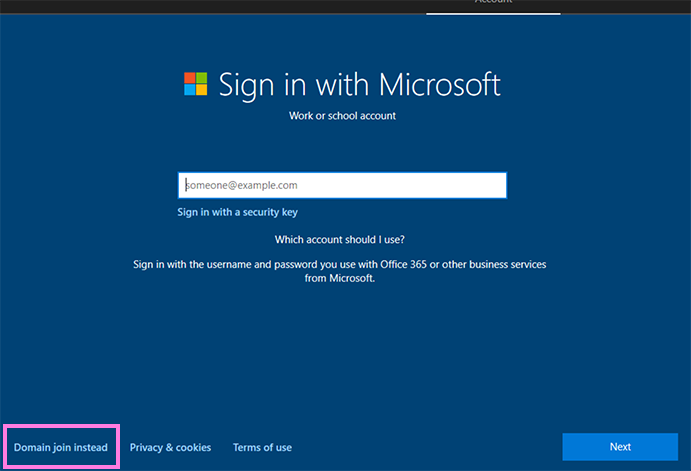
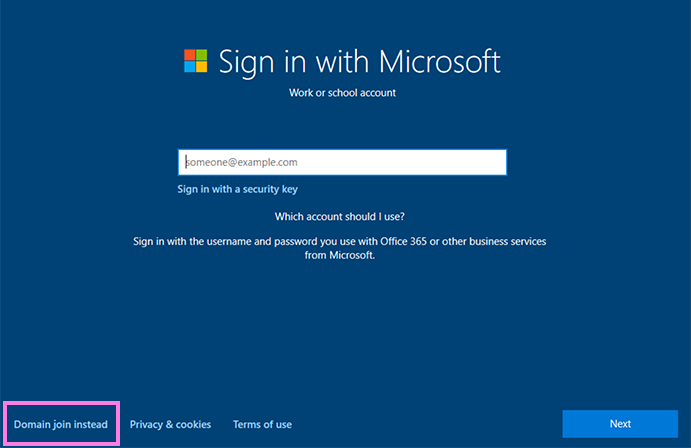
friday push

diff --git a/content/posts/course01.md b/content/posts/course01.md
@@ -161,11 +161,10 @@ You should now see your VM in your Library (left hand column), select it and the
 
 Wait a short while and then you should see a Windows Setup window. Choose your desired language et cetera, select `Next` and then click on `Install Now`. Select `I accept the license terms` and click `Next`. Next select `Custom: Install Windows only (advanced)`, and then select your virtual HD and click Next.
 
-{{< figure src="/img/image005.png" title="" class="custom-figure" >}}
-
 Once its done installing we’ll get to the setup, select your region, preferred keyboard layout etc. Accept the `License Agreement` (if you dare - ***mwhahaha!***). Now once you reach the `Sign in` page don’t fill anything in, rather select `Domain join instead` in the bottom left-hand corner.
 
 {{< figure src="/img/image006.png" title="" class="custom-figure" >}}
+{{< figure src="/img/image006a.png" title="" class="custom-figure" >}}
 
 Choose any username and password, in my case it'll be the highly original choice of `User` and `password`. Then choose 3 security questions, since this is a "burner" system used for the express purpose of this course don't overthink it - randomly hitting the keyboard a few times will do just fine. Turn off all the privacy settings, and for `Cortana` select `Not Now`.
 
